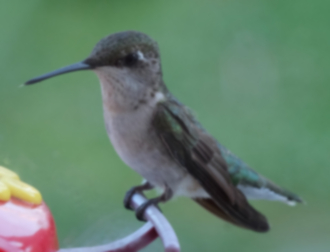
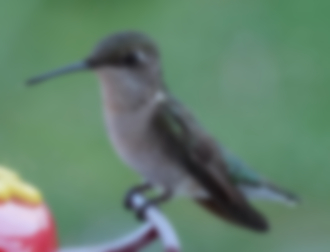
Cont. effect doc work [ci skip]

diff --git a/docs/guide/effect.rst b/docs/guide/effect.rst
@@ -38,10 +38,14 @@ Adaptive Blur
 Gaussian Blur
 '''''''''''''
 
+Smooths images by performing a Gaussian function. The ``sigma`` argument is
+used to define the standard deviation.
+
+
 .. code-block:: python
 
     with Image(filename="hummingbird.jpg") as img:
-        img.gaussian_blur(radius=3, sigma=1)
+        img.gaussian_blur(sigma=3)
         img.save(filename="effect-gaussian-blur.jpg")
 
 +---------------------------------------+------------------------------------------------+
@@ -54,6 +58,11 @@ Gaussian Blur
 
 Motion  Blur
 ''''''''''''
+
+Performs a Gaussian blur operation along a linear direction to simulate a
+motion effect. The ``radius`` argument should always be larger than the
+``sigma`` argument, but if the ``radius`` is not given (or ``0`` value) the
+radius value is selected for you.
 
 .. code-block:: python
 
@@ -72,6 +81,12 @@ Motion  Blur
 Rotational Blur
 '''''''''''''''
 
+This method simulates a motion blur by rotating at the center of the image.
+The larger the angle, the more extreme the blur will be.
+Unlike the other blur methods, there is no ``radius`` or ``sigma`` arguments.
+The ``angle`` parameter can be between ``0°`` and ``360°`` degrees
+with ``0°`` having no effect.
+
 .. code-block:: python
 
     with Image(filename="hummingbird.jpg") as img:
@@ -88,6 +103,10 @@ Rotational Blur
 
 Selective Blur
 ''''''''''''''
+
+Similair to :meth:`Image.blur() <wand.image.BaseImage.blur>` method, this
+method will only effect parts of the image that have a contrast below a given
+quantum threshold.
 
 .. code-block:: python
 
